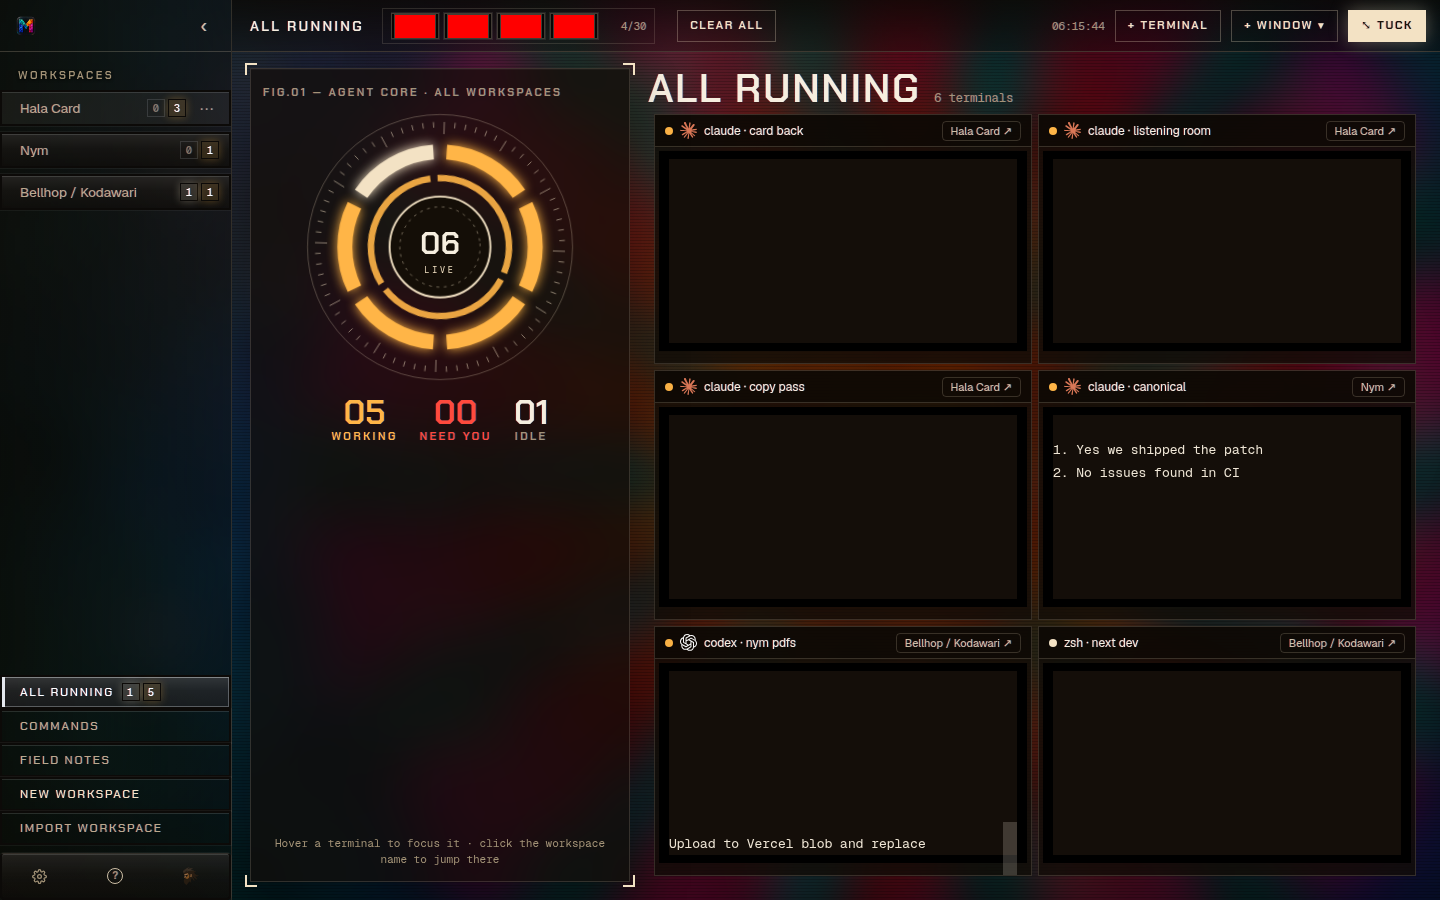
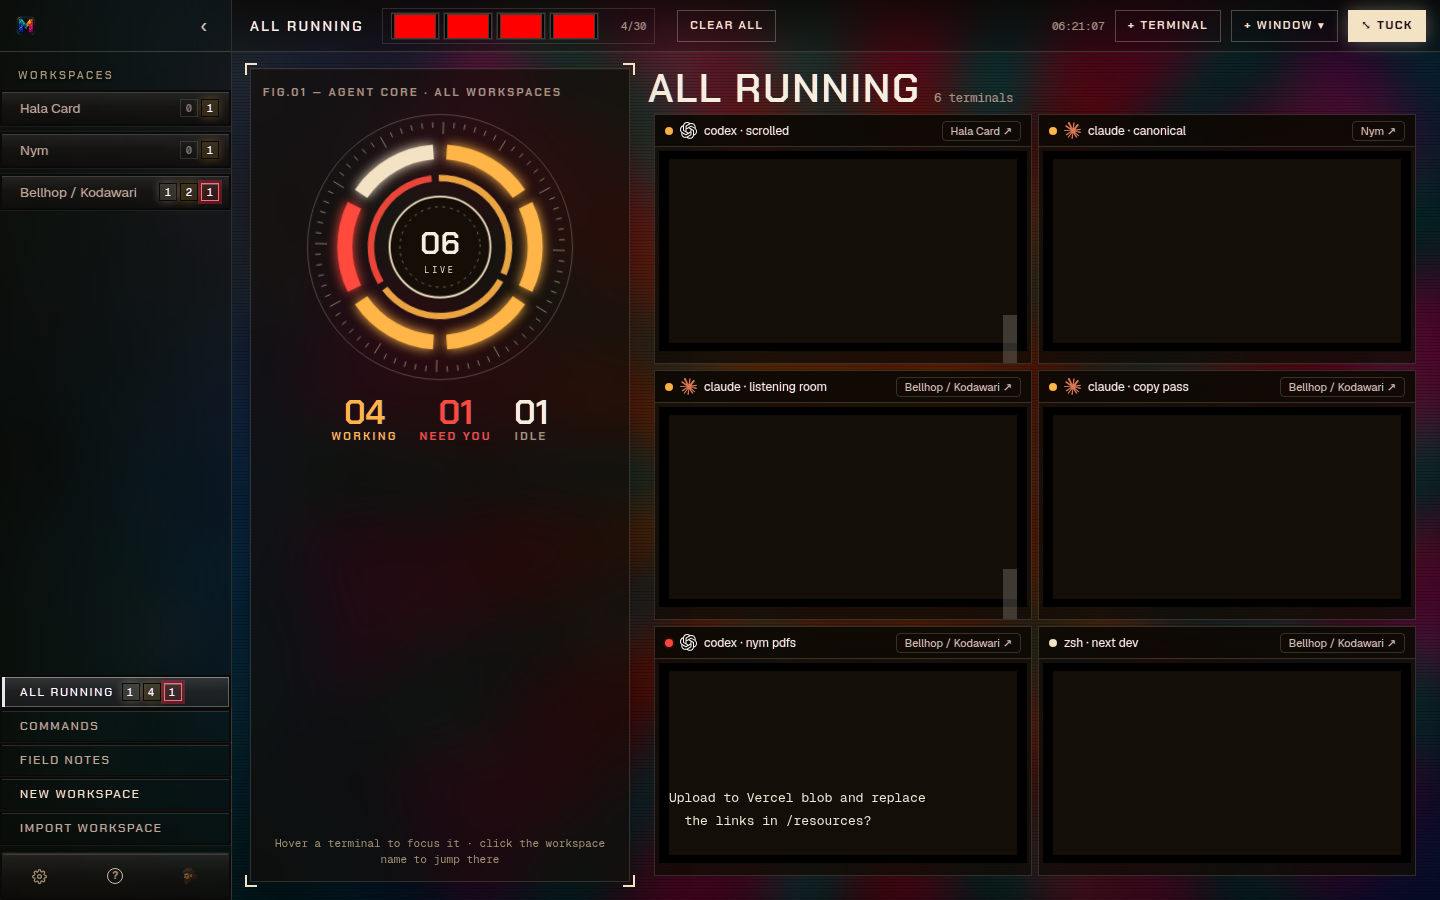
Update the redesign QA for permission rows without the question.
Confirms the new tests and the scrolled-off Codex menu, and notes the generic card title.

diff --git a/qa/REPORT.md b/qa/REPORT.md
@@ -1,48 +1,57 @@
-# Mosaic redesign QA — round 4
+# Mosaic redesign QA — round 5
 
-**Score: 8/10.** Header-only Approve and Deny stay disabled, the 3-option Deny is `3\r`, the log-line false positive is gone, and the ring says THIS WORKSPACE. A real Codex menu whose question has scrolled off the last 24 lines is no longer a dialog, so this is not a 9.
+**Score: 9/10.** The scrolled-off Codex menu opens the card again and sends `1\r` / `2\r`, the shipped/CI list stays quiet, and the new tests assert those results. What is left is the card saying "Waiting for approval" when the question is gone, and a numbered line that only starts with a permission phrase.
 
-Rechecked `fd79cb5`. Vite, Tauri stubbed, prompts through `pty-data`, 1440×900. `npm test` 7/7. `tsc --noEmit` passed. `cargo +stable check` passed. `cargo +stable test` passed.
+Rechecked `8f16b26`. Vite, Tauri stubbed, prompts through `pty-data`, 1440×900. `npm test` 10/10. `tsc --noEmit` passed. `cargo +stable check` passed. `cargo +stable test` passed.
+
+## Tests are real assertions
+
+`tests/agents.test.ts` is 10 tests, not 7. None of the new ones are tautological.
+
+| Test | What it checks |
+| --- | --- |
+| (a) lines 76–81 | `1. Yes we shipped the patch` / `2. No issues found in CI` is not attention, with and without `From the handbook:`. |
+| (b) lines 83–89 | Header-only Allow Bash is attention and both keystrokes are `null`. |
+| (c) lines 91–97 | `1. Yes, proceed` / `2. No, and tell Codex what to do` is attention, Approve `1\r`, Deny `2\r`. |
+| (d) lines 99–104 | Same 3-option menu as test 2: Approve `1\r`, Deny `3\r`. Redundant with test 2, and it still checks the numbers. |
 
 ## Verified
 
-| Claim | Result |
-| --- | --- |
-| Header-only Allow | Card shows the full `Allow Bash(rm -rf public/old-icons)?`. Approve and Deny are `disabled`, titles "Waiting until the Yes/No row is visible". Clicking Deny wrote nothing. `qa/screenshots/app-bellhop.png`. |
-| Rows then Deny | After `1. Yes` / `2. Yes, and don't ask again` / `3. No, and tell Claude…` both buttons enabled. Deny wrote `3\r`. Queue became Nothing waiting. `qa/screenshots/app-after-deny.png`. |
-| `Allow WebFetch?` | Attention, Approve and Deny null until rows exist. With `1. Yes` / `2. No`, keys are `1\r` / `2\r`. |
-| Wrapped Allow | Prompt is `Allow Bash(rm -rf public/old-icons)?`. No guessed number. |
-| Codex upload | Full sentence, `y\r` / `n\r`. The visible bar's Approve was enabled and wrote `y\r`. |
-| Codex numbered, question on screen | `Would you like to run / make the following edits / grant these permissions` → `1\r` / `2\r`. A `›` under the rows still detects. |
-| Claude 2-option, reordered, 4-option | Deny is the first label that starts with No. `Yes, and don't ask again` is not that label. |
-| `1. Yes we shipped the patch` / `2. No issues found in CI` | Not attention, including with `From the handbook:` above it. Written into Nym's terminal: the card stayed Nothing waiting. |
-| Plain prose | `I already asked do you want to proceed? The user said yes yesterday.` is `unknown`. |
-| Antigravity | Full sentence visible. Client height equals scroll height (59px). Line clamp is gone (`UsagePanel.css`). |
-| Ring caption | Workspace ring is **THIS WORKSPACE**. Four tabs, 2 working / 1 need-you / 1 shell: center **04**, labels **02 / 01 / 00**. |
-| Tests | Still 7. The 3-option Deny `3\r` assertion is test 2 (already there). Header-only null keys are tests 4 and 5. `Yes we shipped` / `No issues found` is test 7 (`tests/agents.test.ts:76-82`). That test replaced the old one that required scrolled-off option rows to be a dialog. |
+- Scrolled-off Codex rows open the incoming card with Approve and Deny enabled. Approve wrote `1\r`. `qa/screenshots/app-scrolled.png`.
+- Scrolled-off Claude `1. Yes` / `2. Yes, and don't ask again` / `3. No, and tell Claude what to do differently` is attention, Approve `1\r`, Deny `3\r`. A fourth `No, and stop` does not steal Deny. Reversed order sends Approve `2\r` and Deny `1\r`.
+- `1. Yes we shipped the patch` / `2. No issues found in CI` stays quiet, including under `From the handbook:`. A live write of that list did not open a card.
+- `Plan / 1. Install dependencies / 2. Run the tests / 3. Ship it` stays quiet.
+- Plain "do you want to proceed?" prose stays `unknown`.
+- Header-only Allow Bash and Allow WebFetch stay attention with null keys. With rows, Allow Bash Deny is `3\r` and WebFetch `1. Yes` / `2. No` is `1\r` / `2\r`.
+- Wrapped Allow is the full question. Codex upload is the full sentence and `y\r` / `n\r`. Question-on-screen Codex menus (`run the following command`, `make the following edits`, `grant these permissions`) are `1\r` / `2\r`. ANSI around Allow Bash plus a 2-option menu is `1\r` / `2\r`.
+- Ring on the four-tab mix is **04 THIS WORKSPACE** beside **02 / 01 / 00**. Antigravity's sentence is complete. Usage says `updated 0m ago`.
+- Re-ran: hot-link search and launch, tab rename, Zen panel, command table, All Running Idle and the toggle back, absent field notes. Drag, glyphs, and chip colors were not re-clicked; `8f16b26` does not touch those files, and they passed on `fd79cb5`.
 
-Regressions that still pass: chips `#F3E2C4` / `#FFB547` / `#FF4A3D`, Idle, All Running toggle, five usage cards, `updated 0m ago`, heat table, ⌸ / ⌫, no folder glyph, hot links search / sort / launch, tab rename, drag onto Hala, Zen panel, absent field-notes files. ANSI around Allow Bash plus a 2-option menu is `1\r` / `2\r`. A buried Allow header under 30 lines stays `running`.
+## Remaining
 
-## Still broken
+### P3 — The scrolled-off card says "Waiting for approval"
 
-### P2 — Option rows alone are no longer a dialog
+The menu is detected and the keys are right. `fullQuestion` finds nothing once the question has left the window, so the title falls back to the default (`src/lib/agents.ts:332`). The shot shows "Waiting for approval" with both buttons enabled.
 
-`detectScreenState` only returns attention from `permissionAtEnd` (`src/lib/agents.ts:224`). A permission header has to be inside the last 24 lines.
+Expected: the card shows the rows that are actually on screen, such as `1. Yes, proceed` / `2. No, and tell Codex what to do`.
 
-`1. Yes, proceed` / `2. No, and tell Codex what to do` with the question scrolled off is `unknown`. Round 3 treated that as a live Codex menu, and the previous test required it. Test 7 now asserts the opposite (`tests/agents.test.ts:81-82`).
+### P3 — One permission-shaped line is enough
 
-`1. Yes we shipped` / `2. No issues found` should stay quiet, and it does. The real permission labels can be told apart from that log. Expected: rows whose labels are `Yes`, `Yes, proceed`, or `No, and tell Codex/Claude` still arm the bar when the question has left the window. A status log does not.
+`permissionRowsAtEnd` (`src/lib/agents.ts:176-179`) is true when any numbered label matches `isPermissionChoice` and the screen ends on the last numbered line. It does not require a Yes row and a No row.
 
-A handbook line that quotes the real menu (`do you want to proceed?` and then `1. Yes` / `2. No, and tell Claude…`) is still attention, because that string is the dialog. The shipped/issues handbook in the test is not.
+These opened a card:
+
+- `1. Yes, proceed to chapter two of the book` / `2. Leave the ending` → attention, Approve `1\r`, Deny null.
+- `1. No, and tell Claude the migration can wait until Friday` → attention, Deny `1\r`.
+
+Expected: a permission menu, meaning a Yes-shaped row and a No-shaped row together. A sentence that only starts with "Yes, proceed" or "No, and tell Claude" stays quiet. `1. Yes` / `2. No` with nothing after them also stays quiet today (`isPermissionChoice` wants "No, and tell…" or "don't ask again"). The long Claude menu from the request does not have that gap.
 
 ## Needs a Mac
 
-A live Claude or Codex TUI accepting the keystroke, including the moment before the option rows paint, real provider logins, Tuck's window geometry, `sips` thumbnails, the Desktop permission URLs, and Zen Studio listening on port 3003.
+A live Claude or Codex TUI accepting the keystroke, including the frame before the option rows paint, real provider logins, Tuck's window geometry, `sips` thumbnails, the Desktop permission URLs, and Zen Studio listening on port 3003.
 
 ## Shots
 
-- `qa/screenshots/app-bellhop.png` — header-only card, ring 04 THIS WORKSPACE, 02/01/00, full Antigravity line
-- `qa/screenshots/app-after-deny.png` — Nothing waiting after Deny `3\r`
-- `qa/screenshots/app-ring.png` — shipped/issues log did not open a card
-- `qa/screenshots/app-all.png` — Idle, center caption LIVE
+- `qa/screenshots/app-scrolled.png` — scrolled Codex card, ring 04 THIS WORKSPACE, full Antigravity line
 - `qa/screenshots/app-commands.png`
+- `qa/screenshots/app-all.png`
